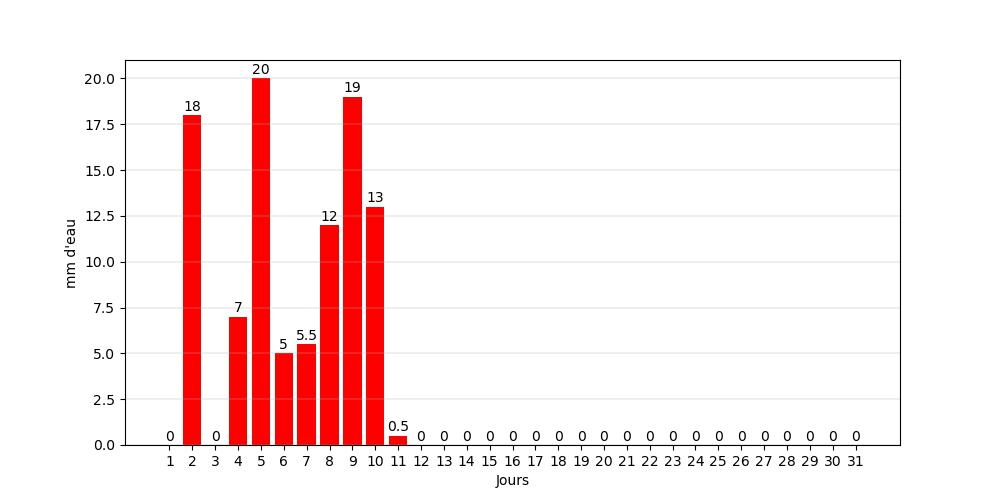
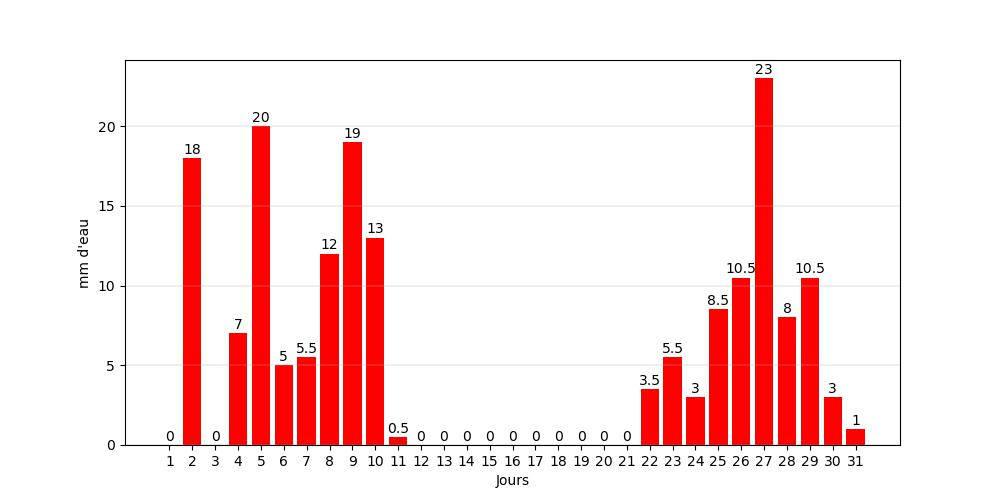
ajout janvier 2025

diff --git a/README.md b/README.md
@@ -50,7 +50,7 @@ L'objectif de ce projet est de créer des histogrammes informatifs pour illustre
 <br />
 
 ## 🔍 Résultat attendu :
-
+A voir sur mon site ici : <a href="http://nelly.babin.free.fr/meteo/index.php" target="_blank" title="Météo sur mon site perso">Météo sur mon site perso</a><br />
 L'utilisateur voit un graphique avec des barres représentant la somme des précipitations du jour pour chaque mois et les cumules des mois de l'année.<br /> 
 Il peut sélectionner le mois ou l’année pour explorer les différentes périodes.
 
